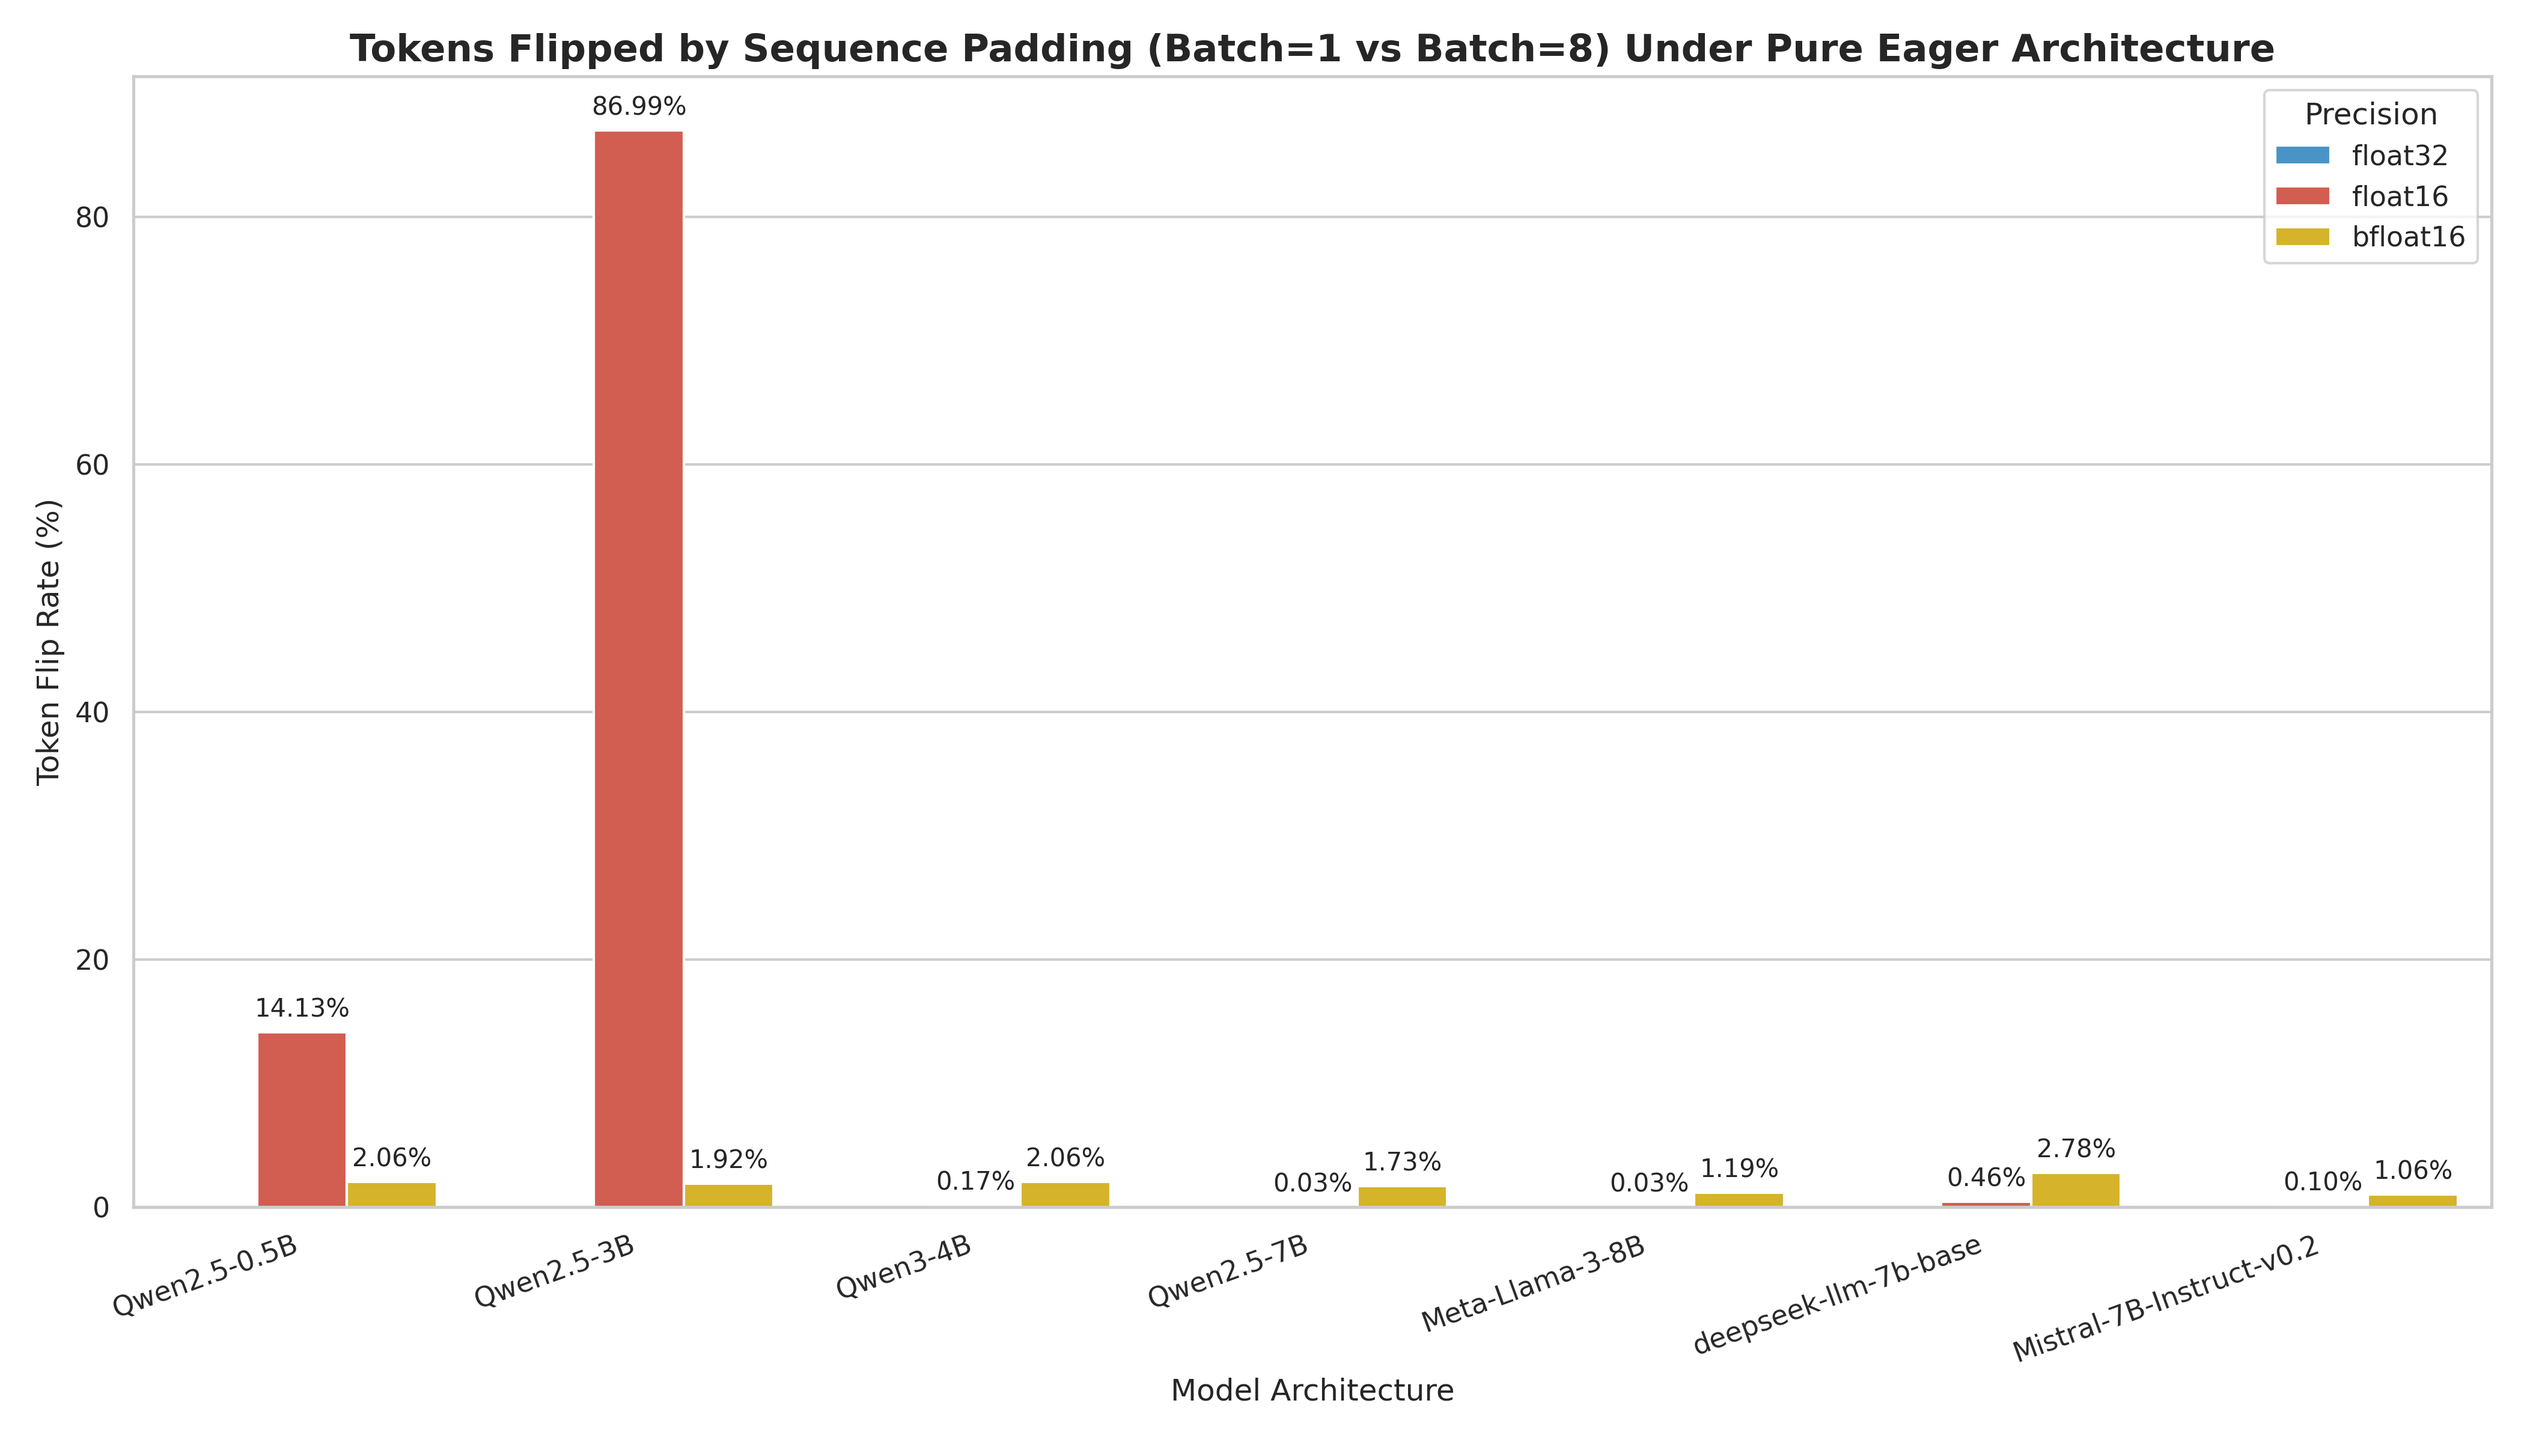
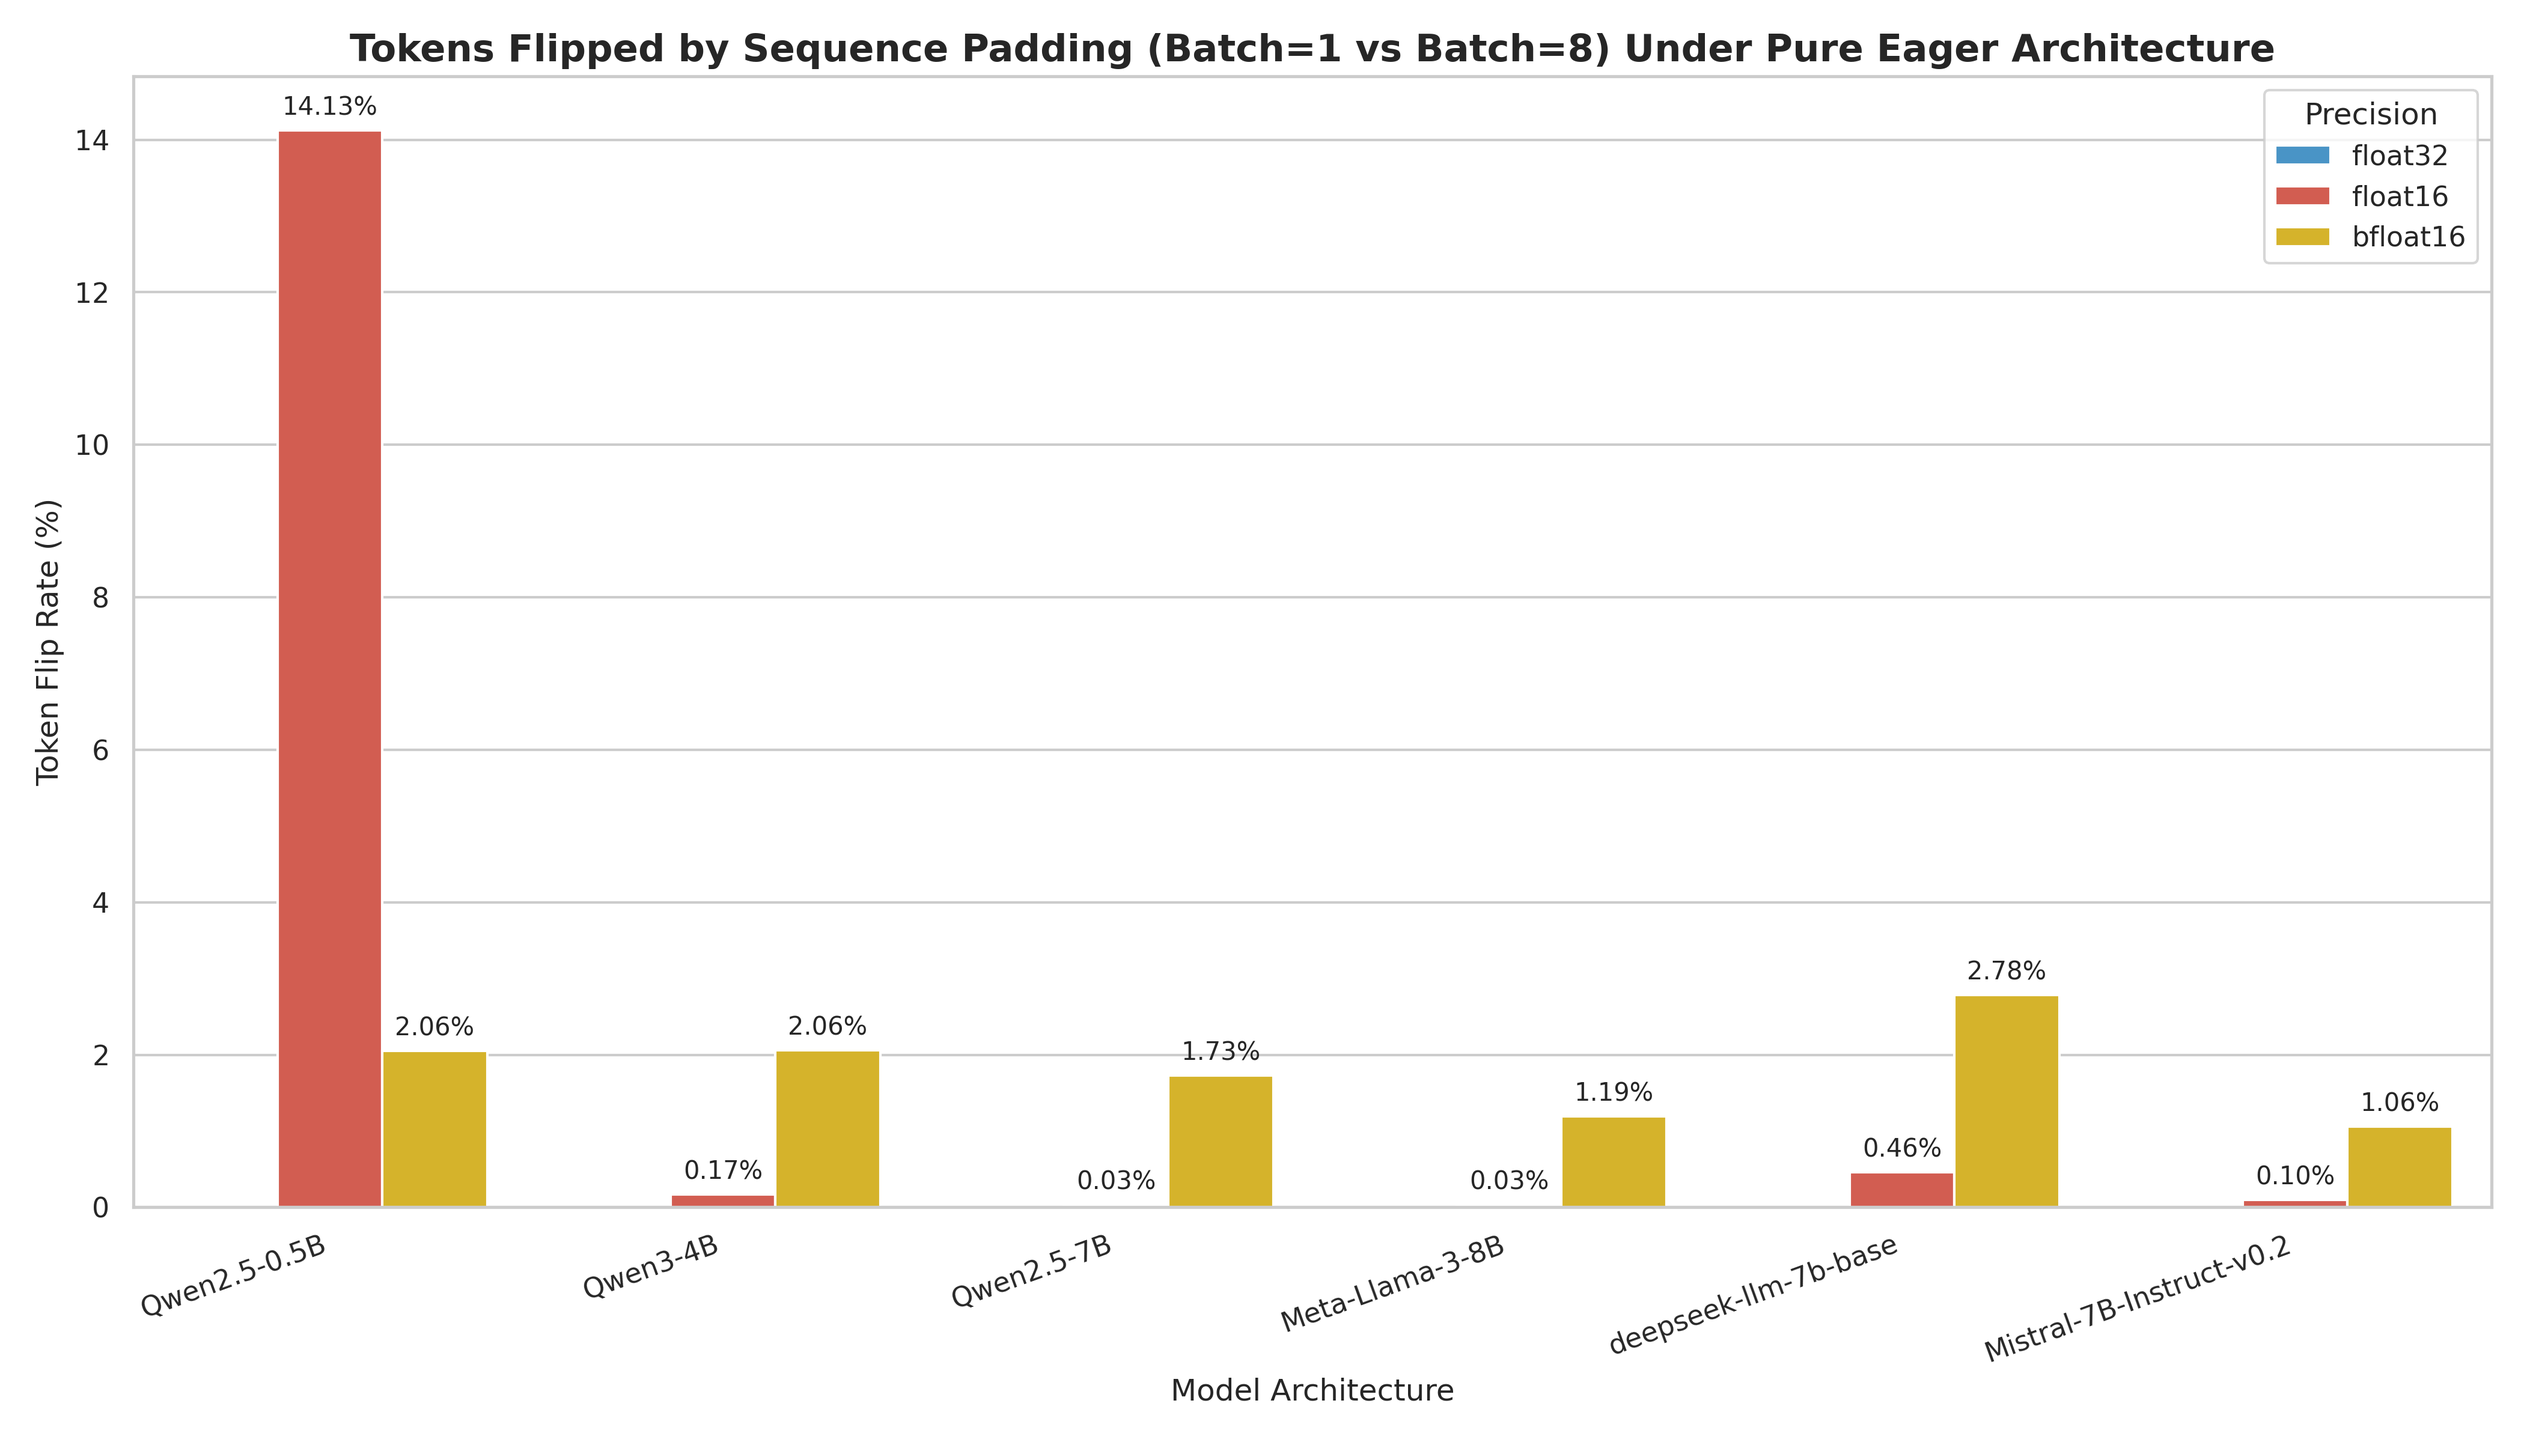
Omit Qwen2.5-3B from comprehensive plots per user request

diff --git a/analyze_batch_layer_variance.py b/analyze_batch_layer_variance.py
@@ -1,0 +1,166 @@
+import argparse
+import random
+import numpy as np
+import torch
+import torch.nn.functional as F
+import sys
+import os
+import gc
+import json
+
+os.environ["TOKENIZERS_PARALLELISM"] = "false"
+sys.path.append("/home/bohanzhang1/Numerical-Randomness-in-LLM-Evaluation/")
+from run_benchmark import DatasetLoader
+from transformers import AutoTokenizer, AutoModelForCausalLM
+
+def set_all_seeds(seed: int):
+    random.seed(seed)
+    np.random.seed(seed)
+    torch.manual_seed(seed)
+    torch.cuda.manual_seed_all(seed)
+
+def calculate_metrics(baseline_tensor, batched_tensor):
+    """
+    Calculate MAE, Relative MAE, and Max Diff between baseline and batched hidden states.
+    Tensors expected to be 1D vectors of shape [hidden_dim].
+    """
+    diff = baseline_tensor - batched_tensor
+    abs_diff = torch.abs(diff)
+    
+    mae = torch.mean(abs_diff).item()
+    baseline_mean_abs = torch.mean(torch.abs(baseline_tensor)).item()
+    rel_mae = mae / baseline_mean_abs if baseline_mean_abs > 0 else 0.0
+    
+    max_diff = torch.max(abs_diff).item()
+    
+    return {
+        "mae": mae,
+        "rel_mae": rel_mae,
+        "max_diff": max_diff
+    }
+
+def main():
+    parser = argparse.ArgumentParser()
+    parser.add_argument("--model", type=str, default="NousResearch/Meta-Llama-3-8B")
+    parser.add_argument("--dataset", type=str, default="commonsense_qa")
+    parser.add_argument("--limit", type=int, default=1000)
+    parser.add_argument("--dtype", type=str, default="bfloat16")
+    parser.add_argument("--batch_size", type=int, default=8)
+    parser.add_argument("--out", type=str, default="batch_layer_variance.jsonl")
+    args = parser.parse_args()
+
+    set_all_seeds(123)
+    split = "validation"
+    if args.dataset in ["cmmlu", "gsm8k"]: split = "test"
+    loader = DatasetLoader(args.dataset, split=split)
+    items = loader.load(limit=args.limit)
+    if not items: return
+    prompts = [item["prompt"] for item in items] if isinstance(items[0], dict) else items
+
+    print(f"--- Layer Variance: {args.model} on {args.dataset} with [{args.dtype}] (Batch: 1 vs {args.batch_size}) ---")
+    
+    tokenizer = AutoTokenizer.from_pretrained(args.model, trust_remote_code=True)
+    if tokenizer.pad_token is None: 
+        tokenizer.pad_token = tokenizer.eos_token
+    # Crucial for left-padding batched inference
+    tokenizer.padding_side = "left"  
+    
+    torch_dtype = getattr(torch, args.dtype)
+    
+    # We test on eager mode
+    model = AutoModelForCausalLM.from_pretrained(
+        args.model, torch_dtype=torch_dtype, device_map="auto", trust_remote_code=True, attn_implementation="eager"
+    )
+    model.eval()
+
+    # 1. Baseline: Batch Size = 1
+    # Store layer states per prompt. Shape: list of dicts {layer_idx: tensor[1, hidden_dim]}
+    baseline_states_list = []
+    baseline_top1 = []
+    print("Running baseline (batch_size=1)...")
+    for i, prompt in enumerate(prompts):
+        inputs = tokenizer(prompt, return_tensors="pt").to(model.device)
+        with torch.no_grad():
+            outputs = model(**inputs, output_hidden_states=True)
+            
+        top1 = torch.argmax(outputs.logits[:, -1, :], dim=-1).item()
+        baseline_top1.append(top1)
+        
+        # Extract the hidden state of the LAST token for each layer
+        layer_dict = {}
+        for l_idx, state in enumerate(outputs.hidden_states[1:]):
+            layer_dict[l_idx] = state[:, -1, :].detach().cpu().float()
+        baseline_states_list.append(layer_dict)
+
+    # 2. Batched: Batch Size = args.batch_size
+    batched_states_list = []
+    batched_top1 = []
+    print(f"Running batched (batch_size={args.batch_size})...")
+    for i in range(0, len(prompts), args.batch_size):
+        batch_prompts = prompts[i:i+args.batch_size]
+        inputs = tokenizer(batch_prompts, return_tensors="pt", padding=True).to(model.device)
+        with torch.no_grad():
+            outputs = model(**inputs, output_hidden_states=True)
+            
+        top1_batch = torch.argmax(outputs.logits[:, -1, :], dim=-1).tolist()
+        batched_top1.extend(top1_batch)
+        
+        # outputs.hidden_states[1:] -> each is (batch, seq_len, hidden_dim)
+        # We need to unbatch them and just take the last token
+        num_layers = len(outputs.hidden_states) - 1
+        for b_idx in range(len(batch_prompts)):
+            layer_dict = {}
+            for l_idx in range(num_layers):
+                state = outputs.hidden_states[l_idx + 1]
+                # Extract batch b_idx, last token -1
+                layer_dict[l_idx] = state[b_idx:b_idx+1, -1, :].detach().cpu().float()
+            batched_states_list.append(layer_dict)
+
+    # 3. Compare and output JSONL
+    print("Computing per-layer metrics...")
+    final_results = []
+    flips = 0
+    num_layers = len(baseline_states_list[0])
+    
+    for i in range(len(prompts)):
+        b1_top1 = baseline_top1[i]
+        bN_top1 = batched_top1[i]
+        flip = (b1_top1 != bN_top1)
+        if flip: flips += 1
+        
+        b1_layers = baseline_states_list[i]
+        bN_layers = batched_states_list[i]
+        
+        layer_metrics = []
+        for l in range(num_layers):
+            metrics = calculate_metrics(b1_layers[l], bN_layers[l])
+            layer_metrics.append({
+                "layer": l,
+                **metrics
+            })
+            
+        final_results.append({
+            "prompt_idx": i,
+            "model": args.model.split("/")[-1],
+            "dataset": args.dataset,
+            "dtype": args.dtype,
+            "flip": flip,
+            "b1_top1": b1_top1,
+            "bN_top1": bN_top1,
+            "layer_metrics": layer_metrics
+        })
+        
+    print(f"Batch Size Flips (1 vs {args.batch_size}): {flips} / {len(prompts)}")
+    
+    with open(args.out, 'a') as f:
+        for res in final_results:
+            f.write(json.dumps(res) + "\n")
+            
+    print(f"Saved layer metrics to {args.out}")
+    
+    del model
+    torch.cuda.empty_cache()
+    gc.collect()
+
+if __name__ == "__main__":
+    main()

diff --git a/plot_batch_layer_variance.py b/plot_batch_layer_variance.py
@@ -1,0 +1,87 @@
+import pandas as pd
+import matplotlib
+matplotlib.use('Agg')
+import matplotlib.pyplot as plt
+import seaborn as sns
+import json
+import argparse
+import os
+
+def parse_jsonl(filepath):
+    data = []
+    if not os.path.exists(filepath):
+        return pd.DataFrame()
+        
+    with open(filepath, 'r') as f:
+        for line in f:
+            line = line.strip()
+            if not line: continue
+            try:
+                obj = json.loads(line)
+                model = obj["model"]
+                layer_metrics = obj["layer_metrics"]
+                
+                for lm in layer_metrics:
+                    data.append({
+                        "Model": model,
+                        "Dataset": obj["dataset"],
+                        "Prompt": obj["prompt_idx"],
+                        "Layer": lm["layer"],
+                        "MAE": lm["mae"]
+                    })
+            except Exception as e:
+                pass
+    return pd.DataFrame(data)
+
+def plot_layer_trends(df, out_path):
+    plt.figure(figsize=(12, 6))
+    sns.set_theme(style="whitegrid")
+    
+    # Calculate mean MAE per layer per model
+    agg_df = df.groupby(["Model", "Layer"])["MAE"].mean().reset_index()
+    
+    sns.lineplot(data=agg_df, x="Layer", y="MAE", hue="Model", marker="o", linewidth=2.5)
+    plt.title("Per-Layer Error Propagation (Batch=1 vs Batch=8)", fontsize=15, fontweight='bold')
+    plt.xlabel("Transformer Layer", fontsize=12)
+    plt.ylabel("Mean Absolute Error", fontsize=12)
+    
+    plt.tight_layout()
+    plt.savefig(out_path, dpi=300)
+    print(f"Saved layer trends plot to {out_path}")
+
+def plot_cdf_final_layer(df, out_path):
+    plt.figure(figsize=(12, 6))
+    sns.set_theme(style="whitegrid")
+    
+    # Extract only the final layer for each model
+    final_layer_data = []
+    for model in df['Model'].unique():
+        model_df = df[df['Model'] == model]
+        max_layer = model_df['Layer'].max()
+        final_layer_data.append(model_df[model_df['Layer'] == max_layer])
+        
+    if not final_layer_data: return
+    final_df = pd.concat(final_layer_data)
+    
+    sns.ecdfplot(data=final_df, x="MAE", hue="Model", linewidth=2.5)
+    plt.title("CDF of Final Layer Token MAE Divergence", fontsize=15, fontweight='bold')
+    plt.xlabel("Final Layer Mean Absolute Error (MAE)", fontsize=12)
+    plt.ylabel("Cumulative Probability", fontsize=12)
+    
+    plt.tight_layout()
+    plt.savefig(out_path, dpi=300)
+    print(f"Saved CDF plot to {out_path}")
+
+if __name__ == "__main__":
+    parser = argparse.ArgumentParser()
+    parser.add_argument("--data", type=str, default="/home/bohanzhang1/Numerical-Randomness-in-LLM-Evaluation/batch_layer_variance_results.jsonl")
+    parser.add_argument("--out_trends", type=str, default="/home/bohanzhang1/Numerical-Randomness-in-LLM-Evaluation/batch_layer_mae_trends.png")
+    parser.add_argument("--out_cdf", type=str, default="/home/bohanzhang1/Numerical-Randomness-in-LLM-Evaluation/batch_final_layer_cdf.png")
+    args = parser.parse_args()
+    
+    df = parse_jsonl(args.data)
+    if df.empty:
+        print("Data is empty. Plots not generated.")
+    else:
+        plot_layer_trends(df, args.out_trends)
+        plot_cdf_final_layer(df, args.out_cdf)

diff --git a/plot_batch_variance.py b/plot_batch_variance.py
@@ -21,6 +21,9 @@ def parse_logs(filepaths):
                     hdr_match = re.search(r'--- Evaluating (.*?) on (.*?) with \[(.*?)\]', line)
                     if hdr_match:
                         current_model = hdr_match.group(1).split('/')[-1]
+                        if current_model == "Qwen2.5-3B":
+                            current_model = None
+                            continue
                         current_ds = hdr_match.group(2)
                         current_dtype = hdr_match.group(3)
                         

diff --git a/plot_scaled_distribution.py b/plot_scaled_distribution.py
@@ -20,6 +20,7 @@ def parse_confidence_log(filepaths):
                     hdr_match = re.search(r'--- Evaluating (.*?) on (.*?) with \[(.*?)\] ---', line)
                     if hdr_match:
                         model = hdr_match.group(1).split('/')[-1]
+                        if model == "Qwen2.5-3B": continue
                         dataset = hdr_match.group(2)
                         dtype = hdr_match.group(3)
                         current_dataset = dataset

diff --git a/plot_scaled_layer_trends.py b/plot_scaled_layer_trends.py
@@ -21,6 +21,7 @@ def parse_layer_log(filepaths):
                     hdr_match = re.search(r'--- Evaluating (.*?) on (.*?) with \[(.*?)\] ---', line)
                     if hdr_match:
                         model = hdr_match.group(1).split('/')[-1] 
+                        if model == "Qwen2.5-3B": continue
                         dataset = hdr_match.group(2)
                         dtype = hdr_match.group(3)
                         current_dataset = dataset
